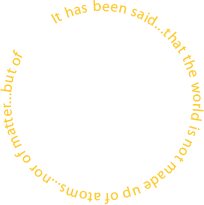
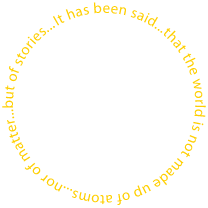
Integrate Sergey changes to text

Changed region(s): [[0.0, 0.0, 1.0, 1.0], [0.2353, 0.1171, 0.2647, 0.1463]]

diff --git a/COUNTDOWN-selected.html b/COUNTDOWN-selected.html
@@ -10,6 +10,9 @@
 	<body>
 		<div id="wrapper">
 			<div class="sun">
+				<img src="images/sun1.png" width="151" height="151" alt="image" />
+				<img style="display: none;" src="images/sun1.png" width="151" height="151" alt="image" />
+				<img style="display: none;" src="images/sun1.png" width="151" height="151" alt="image" />
 				<span class="txt">It has been said...that the world is not made up of atoms...nor of matter...but of stories...</span>
 			</div>
 		</div>

diff --git a/css/styles.css b/css/styles.css
@@ -100,7 +100,7 @@ h6{
 	background:url(../images/btn-close.png) no-repeat;
 	position:absolute;
 	right:10px;
-	top:7px;
+	top:10px;
 }
 .btn-close:hover{background-position:0 -12px;}
 #main-nav{
@@ -254,10 +254,10 @@ h6{
 }
 .sun .txt{
 	position:absolute;
-	left:-27px;
-	top:-27px;
-	width:204px;
-	height:205px;
+	left:-29px;
+	top:-30px;
+	width:208px;
+	height:208px;
 	background:url(../images/txt.png) no-repeat;
 	overflow:hidden;
 	text-indent:-9999px;
